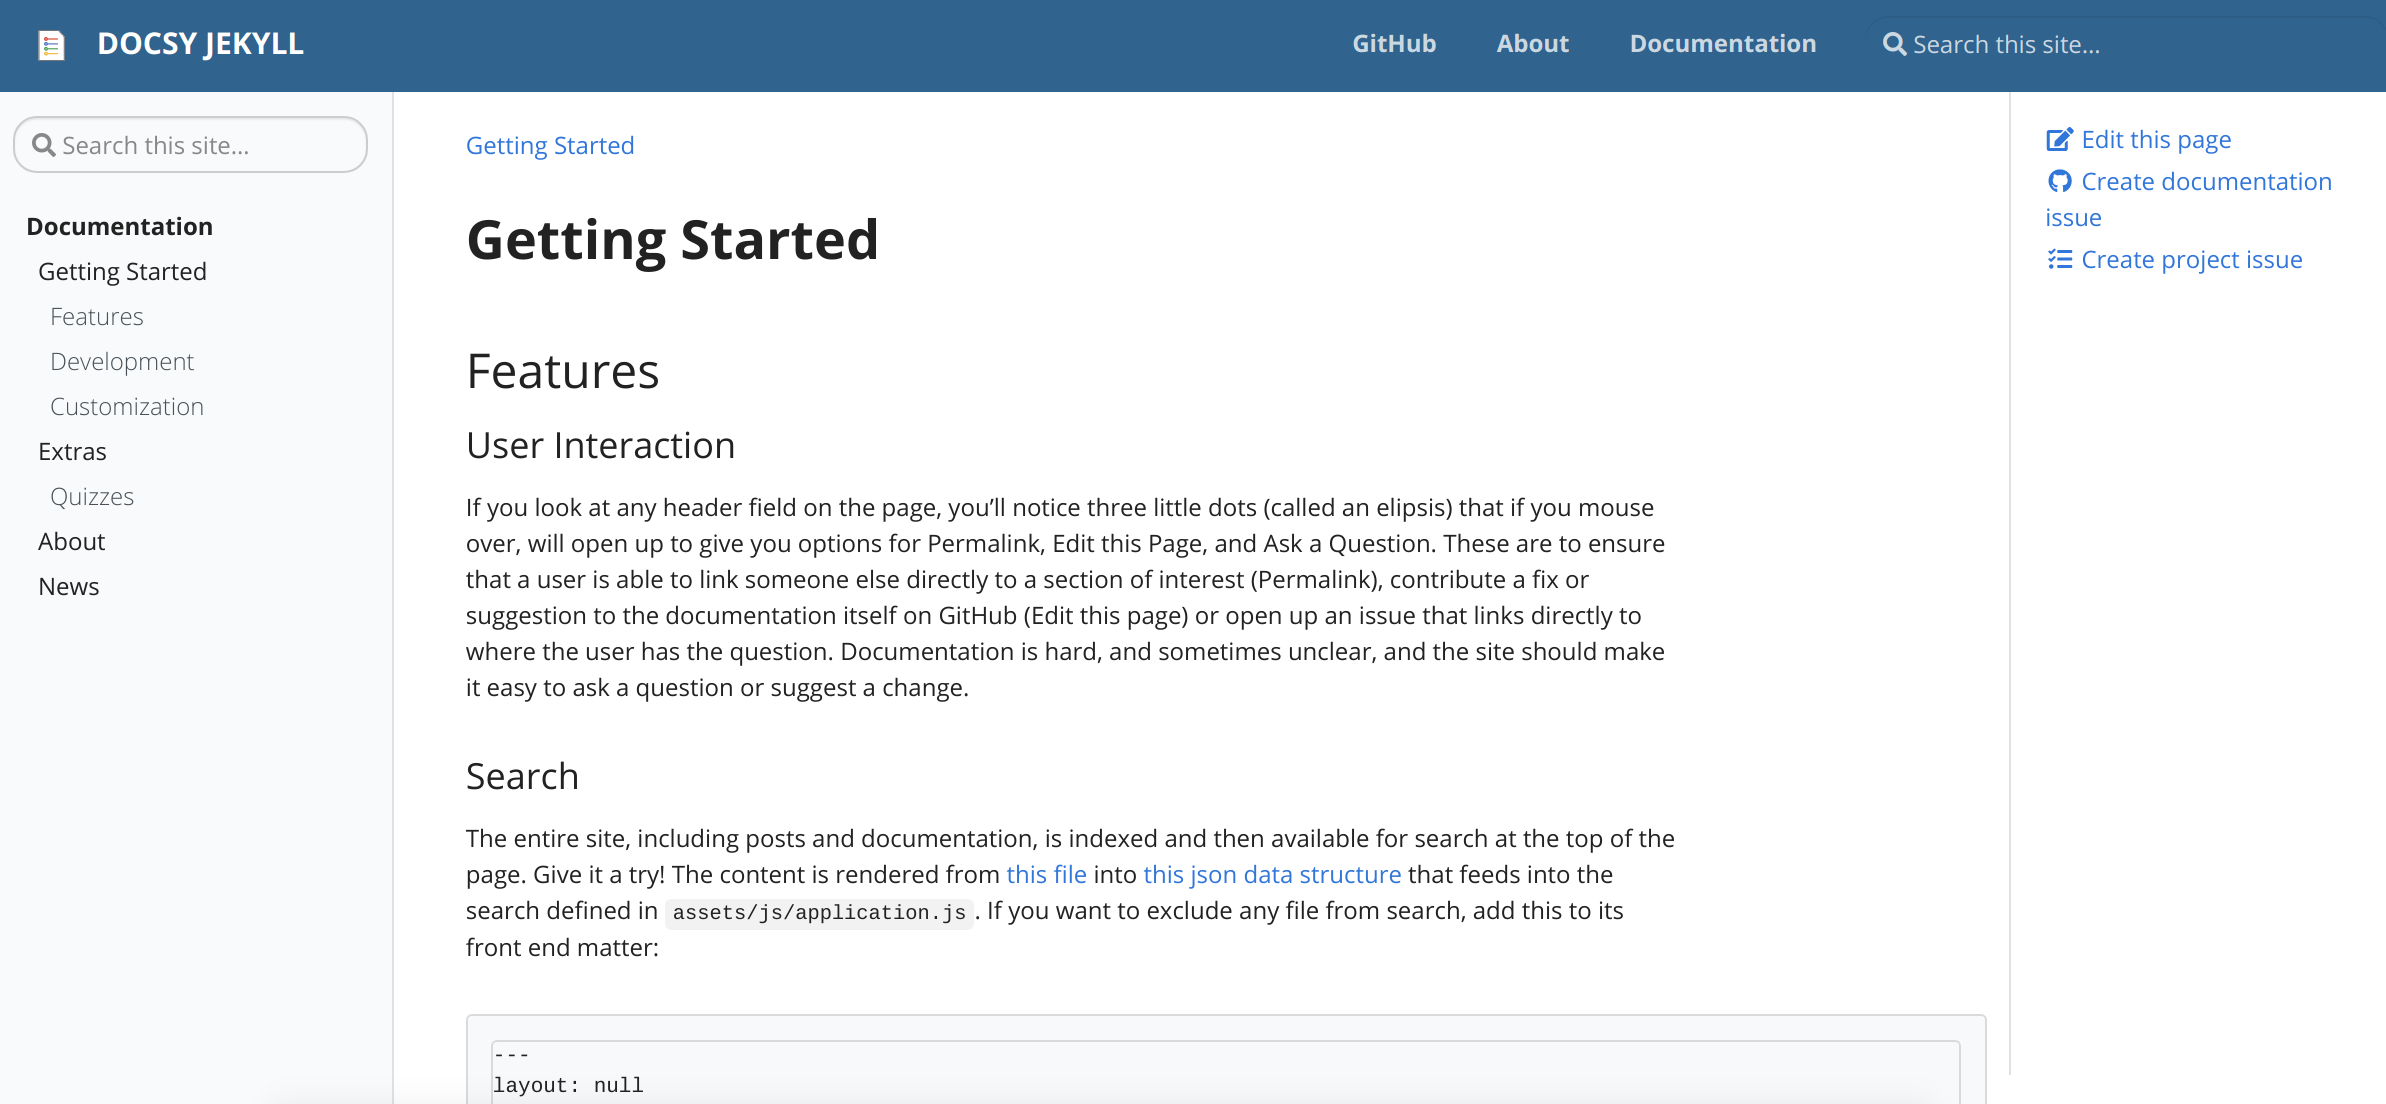
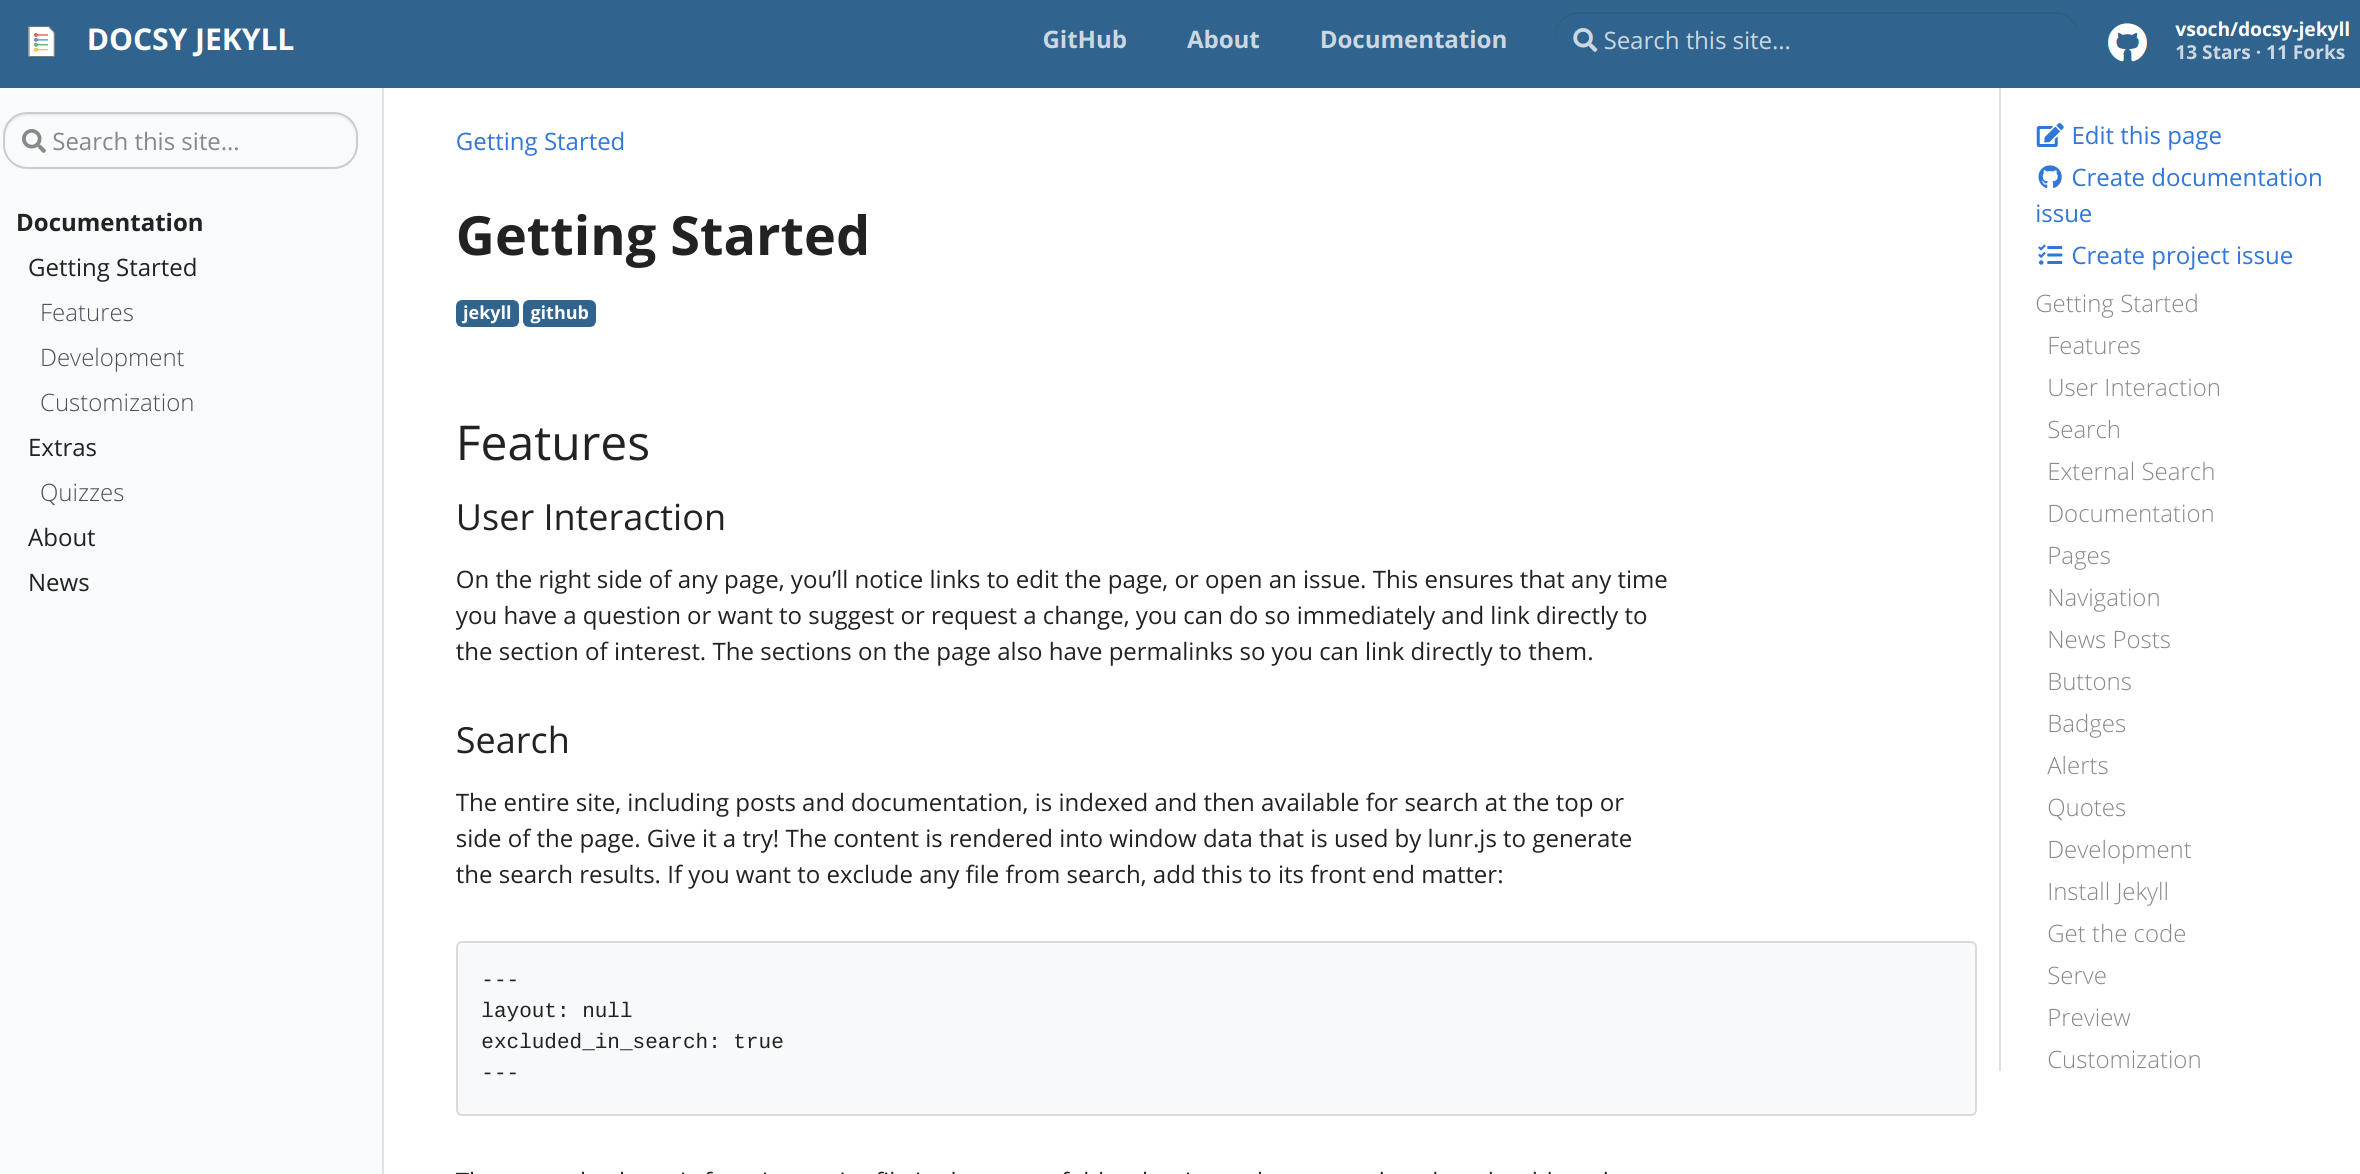
updating docsy jekyll to have linked tags

diff --git a/_includes/tags.html b/_includes/tags.html
@@ -1,2 +1,2 @@
 {% if site.tag_search_endpoint %}{% if page.tags %}<script>
-$('h1').first().append('<div>{% for tag in page.tags %}<span class="badge badge-{{ site.tag_color }}"><a style="cursor:pointer; color:white" href="{{ site.tag_search_endpoint }}{{ tag }}">{{ tag }}</a></span>{% endfor %}</div>')</script>{% endif %}{% endif %}
+$('h1').first().append('<div>{% for tag in page.tags %}<span style="font-size:12px" class="badge badge-{{ site.tag_color }}"><a style="cursor:pointer; color:white" href="{{ site.tag_search_endpoint }}{{ tag }}">{{ tag }}</a></span>{% endfor %}</div>')</script>{% endif %}{% endif %}

diff --git a/_layouts/page.html b/_layouts/page.html
@@ -4,3 +4,4 @@ layout: default
 {{ content }}
 {% include toc.html %}
 {% include permalinks.html %}
+{% include tags.html %}

diff --git a/CHANGELOG.md b/CHANGELOG.md
@@ -14,5 +14,6 @@ Critical items to know are:
  - changed behaviour
 
 ## [master](https://github.com/vsoch/docsy-jekyll/tree/master)
+ - adding search endpoint tags to docs (0.0.11)
  - adding site.url to config, making links in readme absolute (0.0.1)
  - start of theme  (0.0.0)

diff --git a/_docs/extras/index.md b/_docs/extras/index.md
@@ -1,6 +1,8 @@
 ---
 title: Extras
 description: Extras, including quizzes.
+tags:
+ - survey
 ---
 
 # Extras
